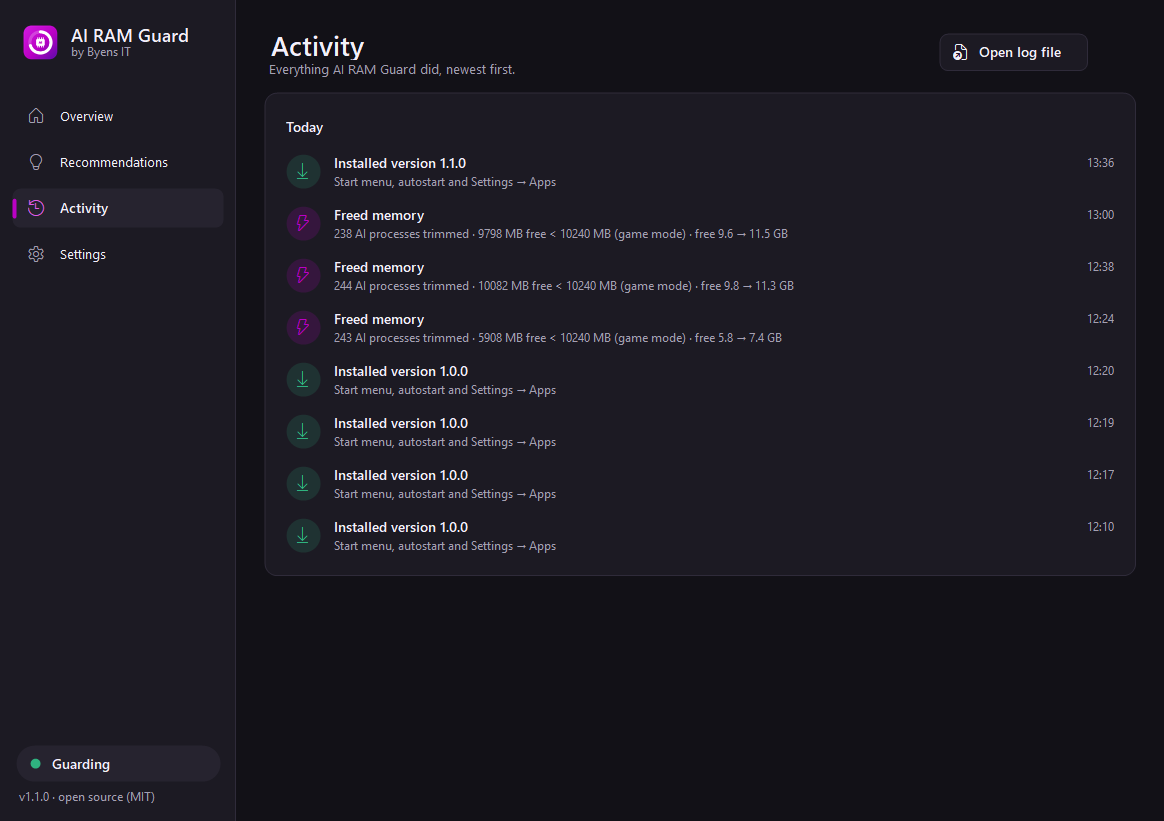
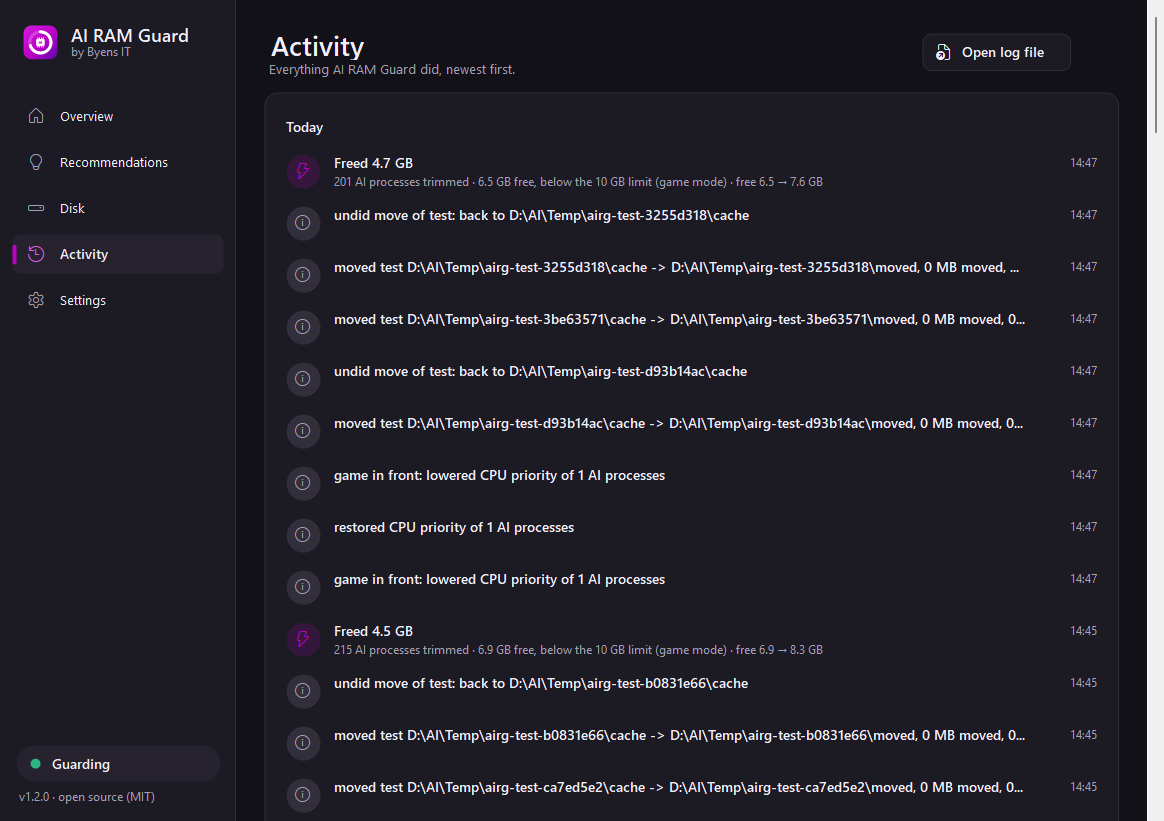
Disk page says up front when a cache can't be moved; new screenshots
A cache with links in it now shows Open instead of a Move button that
would only be refused; airg disk marks it and --json has links.
README gets the Disk page in its gallery; the Danish README lists 1.2.

diff --git a/src/AiRamGuard.Core/Storage.cs b/src/AiRamGuard.Core/Storage.cs
@@ -14,7 +14,8 @@ public sealed record StorageSpot(string Id, string Name, string[] EnvVars, strin
 
 /// <param name="Path">Where the tool writes now.</param>
 /// <param name="RealPath">The same, after following a junction or symbolic link. Its drive is where the bytes really go.</param>
-public sealed record SpotUsage(StorageSpot Spot, string Path, string RealPath, bool Exists, long Bytes, bool OnSystemDrive)
+/// <param name="Links">Links inside: such a cache is not moved (see <see cref="Storage.LinkCount"/>).</param>
+public sealed record SpotUsage(StorageSpot Spot, string Path, string RealPath, bool Exists, long Bytes, bool OnSystemDrive, int Links = 0)
 {
     public string Drive => System.IO.Path.GetPathRoot(RealPath) ?? "";
 }
@@ -89,7 +90,8 @@ public static class Storage
         var system = Path.GetPathRoot(Environment.SystemDirectory);
         var exists = Path.IsPathFullyQualified(path) && Directory.Exists(path);
         return new SpotUsage(s, path, real, exists, exists ? FolderBytes(path) : 0,
-            string.Equals(Path.GetPathRoot(real), system, StringComparison.OrdinalIgnoreCase));
+            string.Equals(Path.GetPathRoot(real), system, StringComparison.OrdinalIgnoreCase),
+            exists && s.Movable && s.CopyContents ? LinkCount(path) : 0);
     }
 
     /// <summary>Follows a junction or symbolic link at <paramref name="path"/> itself (not deeper ones).</summary>

diff --git a/src/AiRamGuard.Cli/Program.cs b/src/AiRamGuard.Cli/Program.cs
@@ -71,11 +71,11 @@ switch (cmd)
     case "disk":
         var spots = Storage.Measure();
         if (Has("--json"))
-            Console.WriteLine(JsonSerializer.Serialize(spots.Select(u => new { id = u.Spot.Id, name = u.Spot.Name, path = u.Path, realPath = u.RealPath, mb = u.Bytes / 1048576, u.OnSystemDrive, movable = u.Spot.Movable, variable = u.Spot.EnvVars[0] }), new JsonSerializerOptions { WriteIndented = true }));
+            Console.WriteLine(JsonSerializer.Serialize(spots.Select(u => new { id = u.Spot.Id, name = u.Spot.Name, path = u.Path, realPath = u.RealPath, mb = u.Bytes / 1048576, u.OnSystemDrive, movable = u.Spot.Movable && u.Links == 0, links = u.Links, variable = u.Spot.EnvVars[0] }), new JsonSerializerOptions { WriteIndented = true }));
         else
         {
             foreach (var u in spots.Where(u => u.Exists).OrderByDescending(u => u.Bytes))
-                Console.WriteLine($"{u.Spot.Id,-12} {Guard.Gb(u.Bytes),6} GB  {(u.OnSystemDrive ? "system drive" : u.Drive),-12}  {u.RealPath}");
+                Console.WriteLine($"{u.Spot.Id,-12} {Guard.Gb(u.Bytes),6} GB  {(u.OnSystemDrive ? "system drive" : u.Drive),-12}  {u.RealPath}{(u.Links > 0 ? $"  ({u.Links} links: not movable)" : "")}");
             Console.WriteLine("\nMove one with 'airg move <id> D:'. Claude Code and Codex hold sessions and settings: they are listed, not moved.");
         }
         return 0;

diff --git a/src/AiRamGuard.Tray/MainForm.cs b/src/AiRamGuard.Tray/MainForm.cs
@@ -483,6 +483,7 @@ sealed class DiskPage : Page
         if (movedByUs) return Button(text, where + " · moved by AI RAM Guard", "Undo move", () => UndoMove(u));
         void Open() { if (Directory.Exists(u.RealPath)) MainForm.Open(u.RealPath); }
         if (!u.Spot.Movable) return Button(text, where + $" · holds sessions: close the app, then set {u.Spot.EnvVars[0]}", "Open", Open);
+        if (u.Links > 0) return Button(text, where + $" · {u.Links} links inside: only an admin can move those, so it stays", "Open", Open);
         var targets = u.OnSystemDrive ? Storage.Targets(u).OrderByDescending(d => d.AvailableFreeSpace).ToList() : [];
         if (targets.Count == 0) return Button(text, where, "Open", Open);
         if (targets.Count == 1) return Button(text, where, $"Move to {targets[0].Name.TrimEnd('\\')}", () => MoveTo(u, targets[0]));

diff --git a/README.md b/README.md
@@ -76,18 +76,24 @@ On macOS? It's the same bug there ([claude-code#1935](https://github.com/anthrop
 | 💾 **Disk** | Shows where AI tools and their caches write (npm, uv, pip, NuGet, Playwright, Hugging Face, Ollama, temp, Claude Code, Codex) and how much is on the system drive. Moves a cache to another drive in one click, with undo. |
 | ⏸ **Pause** | One click pauses the guard for an hour. |
 | 🖥 **Light** | ~20–30 MB, trims itself between rounds. No Electron, no background services, no admin rights. |
-| 📦 **Real install** | Start menu shortcut, starts with Windows, uninstalls from *Settings → Apps*. Or run it portable. |
+| 📦 **Real install** | Start menu shortcut, `airg` on your PATH, starts with Windows, uninstalls from *Settings → Apps*. Or run it portable. |
 | ⌨ **CLI + JSON** | `airg scan`, `airg advise`, `airg clean`, `airg disk` for scripts, dashboards and other tools. |
 | 🧩 **Framework** | AI apps are plain data in [`profiles.json`](src/AiRamGuard.Core/profiles.json). Add a new tool with a pull request, or locally with no code. |
 
 <table>
   <tr>
     <td><img src="assets/screenshot-recommendations.png" alt="Recommendations: duplicated MCP servers and the config file that loads them"></td>
+    <td><img src="assets/screenshot-disk.png" alt="Disk: where AI tools and caches write, with a button to move a cache to another drive"></td>
+  </tr>
+  <tr>
+    <td align="center"><b>Recommendations</b>: fix the cause</td>
+    <td align="center"><b>Disk</b>: caches off the system drive, with undo</td>
+  </tr>
+  <tr>
     <td><img src="assets/screenshot-activity.png" alt="Activity: a timeline of what AI RAM Guard freed and closed"></td>
     <td><img src="assets/screenshot-settings.png" alt="Settings: automatic guard, limits, per-app caps"></td>
   </tr>
   <tr>
-    <td align="center"><b>Recommendations</b>: fix the cause</td>
     <td align="center"><b>Activity</b>: what it did and why</td>
     <td align="center"><b>Settings</b>: limits, game mode, caps</td>
   </tr>

diff --git a/docs/cli.md b/docs/cli.md
@@ -11,12 +11,12 @@
 | `airg watch` | Guard every 2 minutes (headless version of the app) |
 | `airg watch --min-free 8 --interval 120 --no-game-mode` | Custom limit (GB), interval (s), game mode off |
 | `airg disk` | Where AI tools and their caches write, size and drive, biggest first |
-| `airg disk --json` | Same as JSON: `id`, `name`, `path`, `realPath`, `mb`, `onSystemDrive`, `movable`, `variable` |
+| `airg disk --json` | Same as JSON: `id`, `name`, `path`, `realPath`, `mb`, `onSystemDrive`, `movable`, `links`, `variable` |
 | `airg move <id> D:` | Move a cache to `D:\AiCache\<id>` and point its tool there (user environment variable) |
 | `airg move <id> <folder>` | Same, to an empty or new folder of your choice |
 | `airg undo <id>` | Move it back and restore the variable exactly as it was (or remove it) |
 
-Ids for `move`: `npm`, `uv`, `pip`, `nuget`, `playwright`, `huggingface`, `ollama`, `temp`. `claude` and `codex` are listed by `disk` but not moved: they hold sessions and settings. Programs you start after a move use the new folder; restart the ones that were open.
+Ids for `move`: `npm`, `uv`, `pip`, `nuget`, `playwright`, `huggingface`, `ollama`, `temp`. `claude` and `codex` are listed by `disk` but not moved: they hold sessions and settings. Neither is a cache with links in it (Hugging Face makes them in Developer Mode): only an admin can recreate links, so it would arrive half-moved. Programs you start after a move use the new folder; restart the ones that were open.
 
 Exit code is `0` on success and `1` for an unknown command or a move that was refused.
 

diff --git a/README.da.md b/README.da.md
@@ -25,6 +25,8 @@ Kendte fejlrapporter, som AI RAM Guard afhjælper på din PC, indtil de er rette
 - 🧹 **Rydder op:** lukker MCP-servere, som den har set et AI-program starte, når programmet er væk. Det, du selv har startet, rører den ikke.
 - 🪶 **Frigør RAM uden at lukke noget:** flytter ubrugt AI-hukommelse til swapfilen, når der er for lidt fri RAM. Programmet, du bruger, røres aldrig.
 - 🎯 **Loft pr. program**, ⏸ **pause i en time** og 🎮 **spiltilstand** med strammere grænse, mens et spil kører i fuld skærm.
+- 🐢 **Lavere prioritet i baggrunden:** AI-programmer, du ikke bruger, giver først slip på RAM, og under spil får de også mindre CPU. Det sættes tilbage, så snart du skifter til dem.
+- 💾 **Disk:** viser, hvor AI-værktøjer og deres cache skriver, og flytter en cache væk fra systemdrevet med ét klik. Kan fortrydes.
 - 📦 Rigtig installation uden administratorrettigheder, og kommandolinjen `airg` til scripts.
 
 ## Kom i gang
@@ -38,6 +40,7 @@ Så ligger den i Start-menuen, starter med Windows og kan fjernes under *Indstil
 airg scan     RAM pr. AI-program
 airg advise   hvad du skal rette, så det ikke sker igen
 airg clean    ryd op nu
+airg disk     hvor AI-værktøjer fylder på disken
 ```
 
 ## Om
